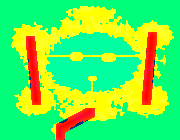
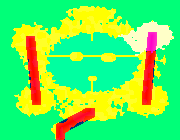
Lago: Praia Escura (areia preta, pedras na beira) e píer com barco na Margem Norte (em revisão)
Claude-Session: https://claude.ai/code/session_01DxMENvJSpBJLKVoAtLL83c

Changed region(s): [[0.6667, 0.1429, 0.9722, 0.4], [0.5, 0.2286, 0.5278, 0.2857]]

diff --git a/mapas/Mapa_LagoSubterraneo/lago_subterraneo.js b/mapas/Mapa_LagoSubterraneo/lago_subterraneo.js
@@ -37,6 +37,12 @@ function lakeCave(){
   if(e<1&&!ISL.some(([a,b,rx,ry])=>Math.hypot((x-a)/rx,(y-b)/ry)<1))TY[i]=4}
  for(const [ax,ay,bx,by] of[[40,56,144,56],[92,80,92,96]]){const n=Math.ceil(Math.hypot(bx-ax,by-ay)*2);
   for(let s2=0;s2<=n;s2++){const x=ax+(bx-ax)*s2/n,y=ay+(by-ay)*s2/n;for(let j=-1;j<=0;j++)for(let k=-1;k<=0;k++){const tx=Math.round(x+k),ty=Math.round(y+j),i=ty*W+tx;if(TY[i]==4){TY[i]=0;BR[i]=1}}}}
+ /* Praia Escura: areia preta e brilhante (TY 5) no salão nordeste e descendo pela margem até a água */
+ for(let y=0;y<H;y++)for(let x=0;x<W;x++){const i=y*W+x;if(TY[i]==3||TY[i]==4||BR[i])continue;
+  const e=Math.hypot((x-152)/22,(y-36)/16)+(vn(x*16,y*16,30,160)-.5)*.3,sh=Math.hypot((x-128)/16,(y-46)/12)+(vn(x*16,y*16,30,161)-.5)*.3;
+  if(e<1||sh<1)TY[i]=5}
+ /* Margem Norte: um píer velho de tábuas (plano) saindo da margem para dentro do lago */
+ for(let y=28;y<=40;y++)for(const x of[91,92]){const i=y*W+x;if(TY[i]==4){TY[i]=0;BR[i]=1}}
  /* tira bolsões sem ligação com a saída */
  {const seen=new Uint8Array(W*H),q=[(H-2)*W+60];seen[q[0]]=1;while(q.length){const i=q.pop(),x=i%W,y=(i/W)|0;for(const [dx,dy] of[[1,0],[-1,0],[0,1],[0,-1]]){const nx=x+dx,ny=y+dy;if(nx<0||ny<0||nx>=W||ny>=H)continue;const n=ny*W+nx;if(!seen[n]&&TY[n]!=3&&TY[n]!=4){seen[n]=1;q.push(n)}}}
   for(let i=0;i<W*H;i++)if(TY[i]!=3&&TY[i]!=4&&!seen[i])TY[i]=3}
@@ -62,6 +68,9 @@ function lakeCave(){
     if(lay==0){cr=[140,62,40]}else if(lay==1){cr=[162,78,48]}else if(lay==2){cr=[118,50,34]}else{cr=[178,96,60]}
     let k=.62+.38*dn/14;if(dn<3)k*=.62;if(hq(x>>1,y)<.05)k*=.8;r=cr[0]*k*grain;g=cr[1]*k*grain;b=cr[2]*k*grain}
    else{const n=vn(X,Y,40,77)*.7+vn(X,Y,9,78)*.3;r=(30+22*n)*grain;g=(22+16*n)*grain;b=(20+12*n)*grain}}
+  else if(tp==5){/* areia escura da praia: preta, ondulada, com grãos brilhando */
+   const n=vn(X,Y,30,79),rip=Math.sin((X*.35+Y*.9+vn(X,Y,40,74)*14)*.55),k=(.9+.1*rip)*grain;r=(52+22*n)*k;g=(46+18*n)*k;b=(50+20*n)*k;
+   if(hq(x,y*3)<.012){r=150;g=140;b=160}}
   else if(tp==1){/* areia acumulada com ondulações */
    const n=vn(X,Y,30,79),rip=Math.sin((X*.35+Y*.9+vn(X,Y,40,74)*14)*.55),k=(.92+.08*rip)*grain;r=(170+26*n)*k;g=(134+22*n)*k;b=(88+16*n)*k}
   else if(tp==2){/* lajes do templo com rejunte e areia por cima */
@@ -122,7 +131,12 @@ function lakeCave(){
  /* Chegada: escada de corda (provisória: as cordas) e o acampamento dos exploradores */
  aNear('ropes',60,123,{bw:1});fire(55,128);aNear('goods',65,127,{});torch(66,124,{flip:true});
  /* barco a remo amarrado na Margem Sul e um poste de amarração */
- {const c=mkA('rowboat');put(c,100*T,86*T);}aNear('mooring',97,95,{bw:0,road:0});
+ /* Margem Norte: o barco amarrado ao lado do píer velho, com o poste de amarração na ponta da margem */
+ {const c=mkA('rowboat',true);put(c,94*T,39*T);}{let sy=28;while(sy<50&&TY[sy*W+94]!=4)sy++;const m=mkA('mooring');put(m,94*T,(sy-1)*T+4);S[(sy-2)*W+94]=1}
+ /* Praia Escura: pedras lisas só na beira da água (bloqueiam) */
+ {let n=0;for(let k=0;k<600&&n<14;k++){const x=110+hq(k,181)*50|0,y=24+hq(k,182)*40|0,i=y*W+x;if(TY[i]!=5||S[i]||AUSE[i])continue;
+   let w=false;for(const [dx,dy] of[[1,0],[-1,0],[0,1],[0,-1],[2,0],[0,2]])if(TY[(y+dy)*W+x+dx]==4)w=true;if(!w)continue;
+   aPut(['pebbles1','pebbles2'][(hq(x,y)*2)|0],x,y,{flip:hq(y,x)<.5,res:1});n++}}
  /* tochas em volta do lago e nos salões; rochedos só colados na parede */
  for(const [x,y,f] of[[52,82,0],[132,82,1],[48,40,0],[136,40,1],[70,24,0],[114,24,1],[90,104,0]])torch(x,y,{flip:!!f});
  for(let k=3;k<=7;k++){const h=HALLS[k];

diff --git a/mapas/Mapa_LagoSubterraneo/MAPA.md b/mapas/Mapa_LagoSubterraneo/MAPA.md
@@ -8,7 +8,7 @@
   Gruta) com um tipo de chão a mais: **4 = água funda** (não se anda).
 - **Chão:** `lg_floor.gdshader` = o shader da Gruta + a água (porte linha a linha). Conferido no Godot 4.7.2:
   **99,9995 %** dos pixels com diferença ≤ 2, PSNR **71,0 dB**.
-- **`gen_data`:** R = andável, G = distância × 10, B = tipo × 40 (0 arenito, 1 areia, 2 lajes, 3 rocha, 4 água).
+- **`gen_data`:** R = andável, G = distância × 10, B = tipo × 40 (0 arenito, 1 areia, 2 lajes, 3 rocha, 4 água, 5 areia escura).
 - **Efeitos:** `fx_lg.gd` (igual ao `fx_ga.gd`: poeira, areia do teto, fogueira, lanternas).
 - **Sem animais.** Pouca poluição: enfeites só nas paredes; o meio dos salões e da margem fica livre para caçar.
 
@@ -26,12 +26,12 @@
 |---|---|---|
 | 0 | Lago Subterrâneo | túneis e rocha |
 | 1 | Chegada (60, 128) | o pé da escada e o acampamento dos exploradores |
-| 2 | Margem Sul (90, 112) | o barco amarrado e a passarela para a ilhota |
+| 2 | Margem Sul (90, 112) | a passarela para a ilhota |
 | 3 | Gruta Oeste (36, 100), **caça** | salão grande, vazio no meio |
 | 4 | Gruta Leste (146, 100), **caça** | idem |
 | 5 | Salão dos Cristais (30, 40), **caça** | idem (vai receber os cristais âmbar) |
-| 6 | Praia Escura (152, 36), **caça** | idem |
-| 7 | Margem Norte (92, 14), **caça** | idem |
+| 6 | Praia Escura (152, 36), **caça** | **areia preta e brilhante** (tipo 5) descendo até a margem nordeste do lago; pedras lisas (com colisão) só na beira da água |
+| 7 | Margem Norte (92, 14), **caça** | aberta; na margem do lago, um **píer velho de tábuas** (plano, x 91-92) com o **barco amarrado** ao lado e o poste de amarração |
 | 8 | Margens do Lago, **caça** | a margem larga em volta do lago, as duas ilhas e a ilhota |
 
 O lago (água funda) fica no meio, com duas ilhas ligadas às margens leste e oeste por uma **passarela reta de tábuas**
